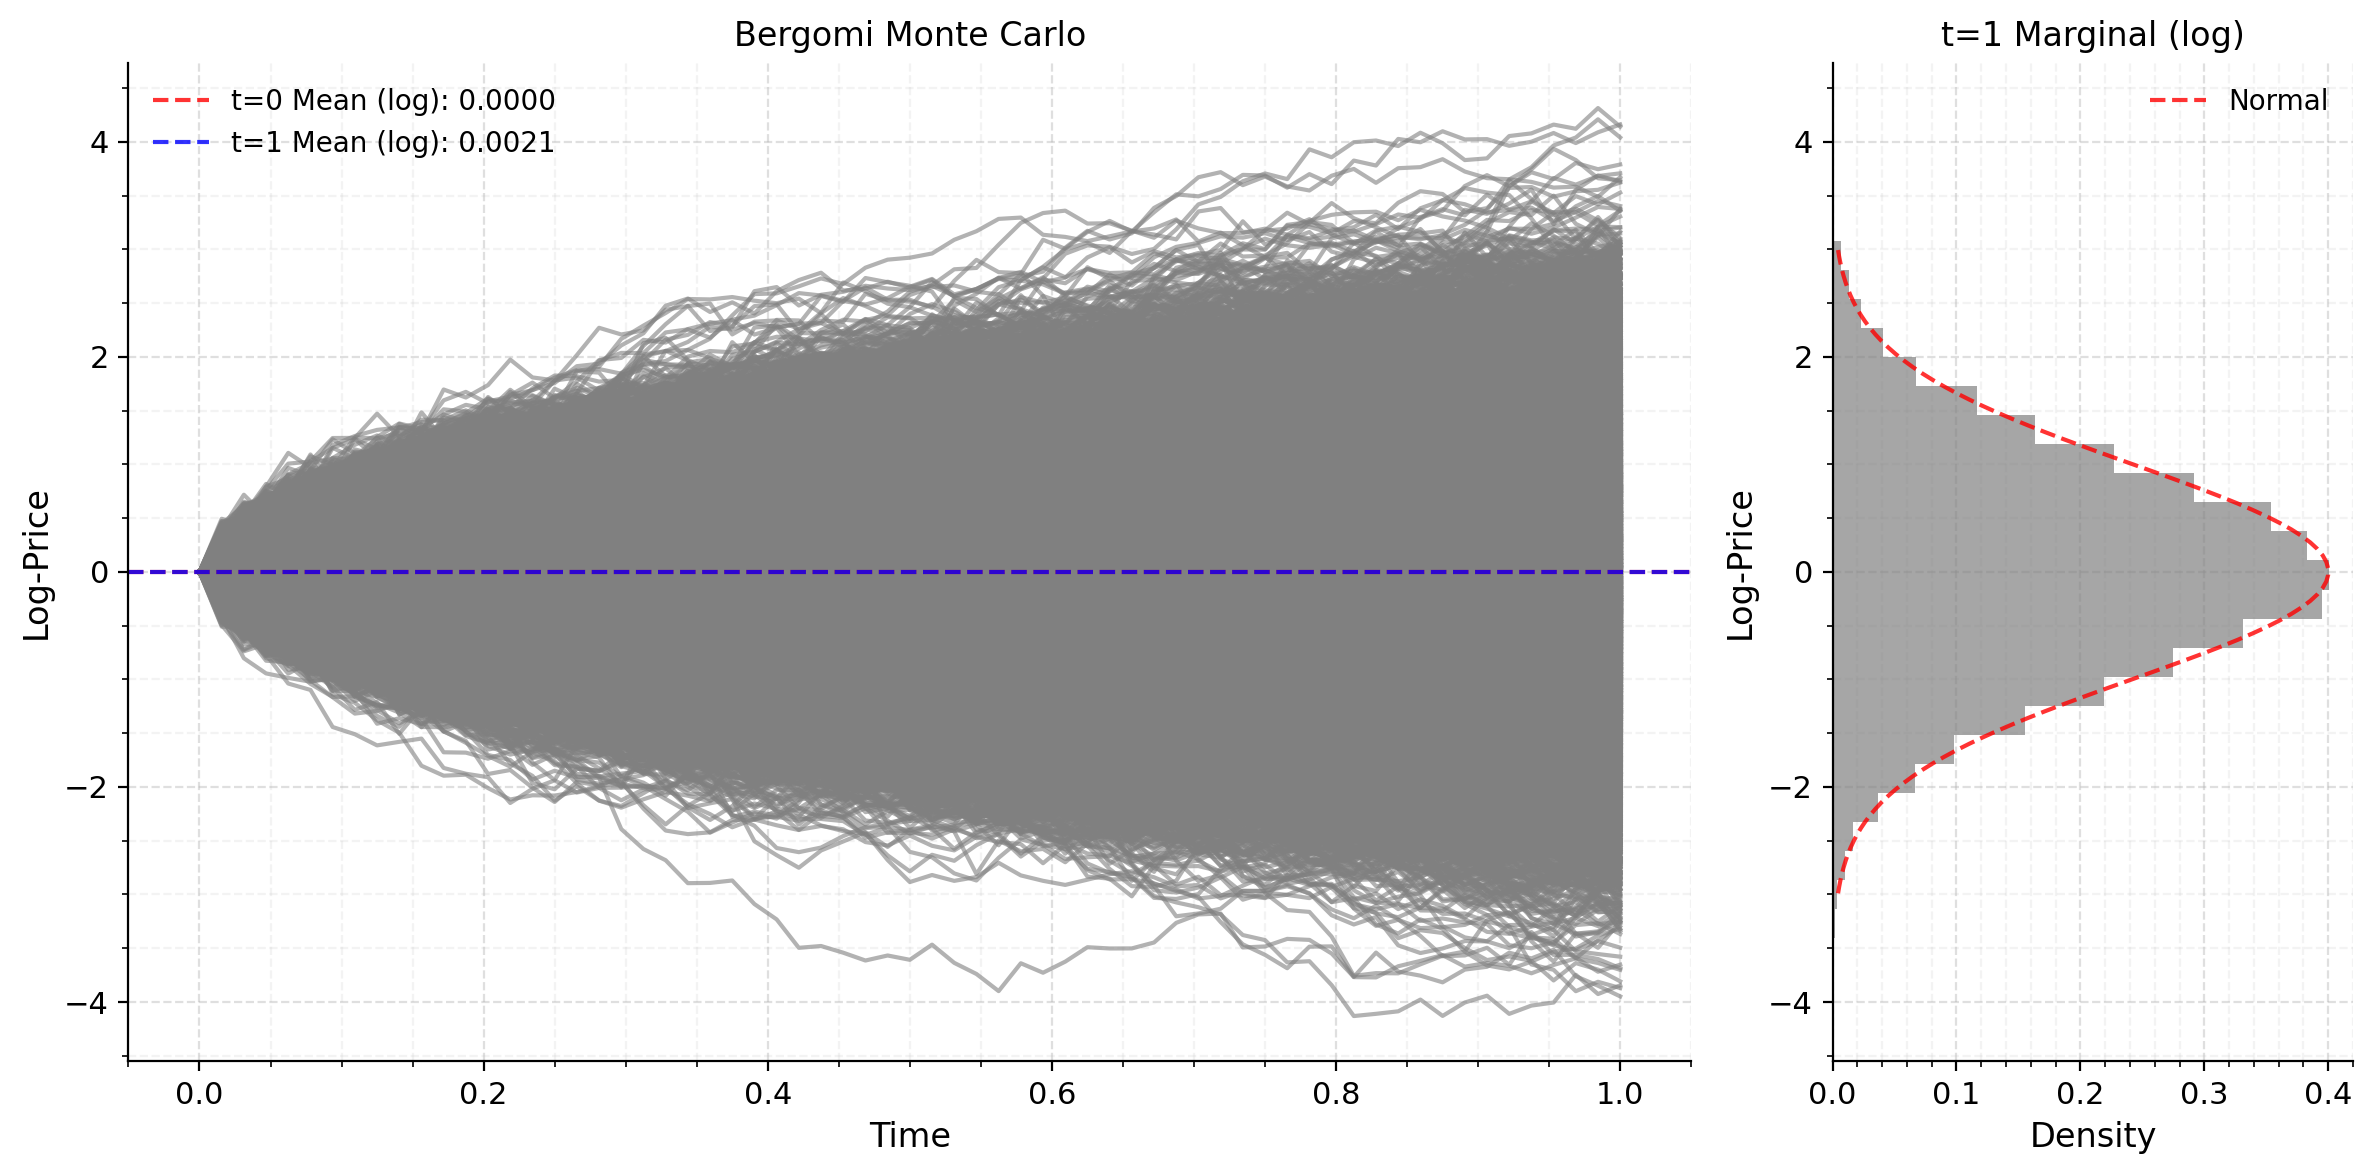
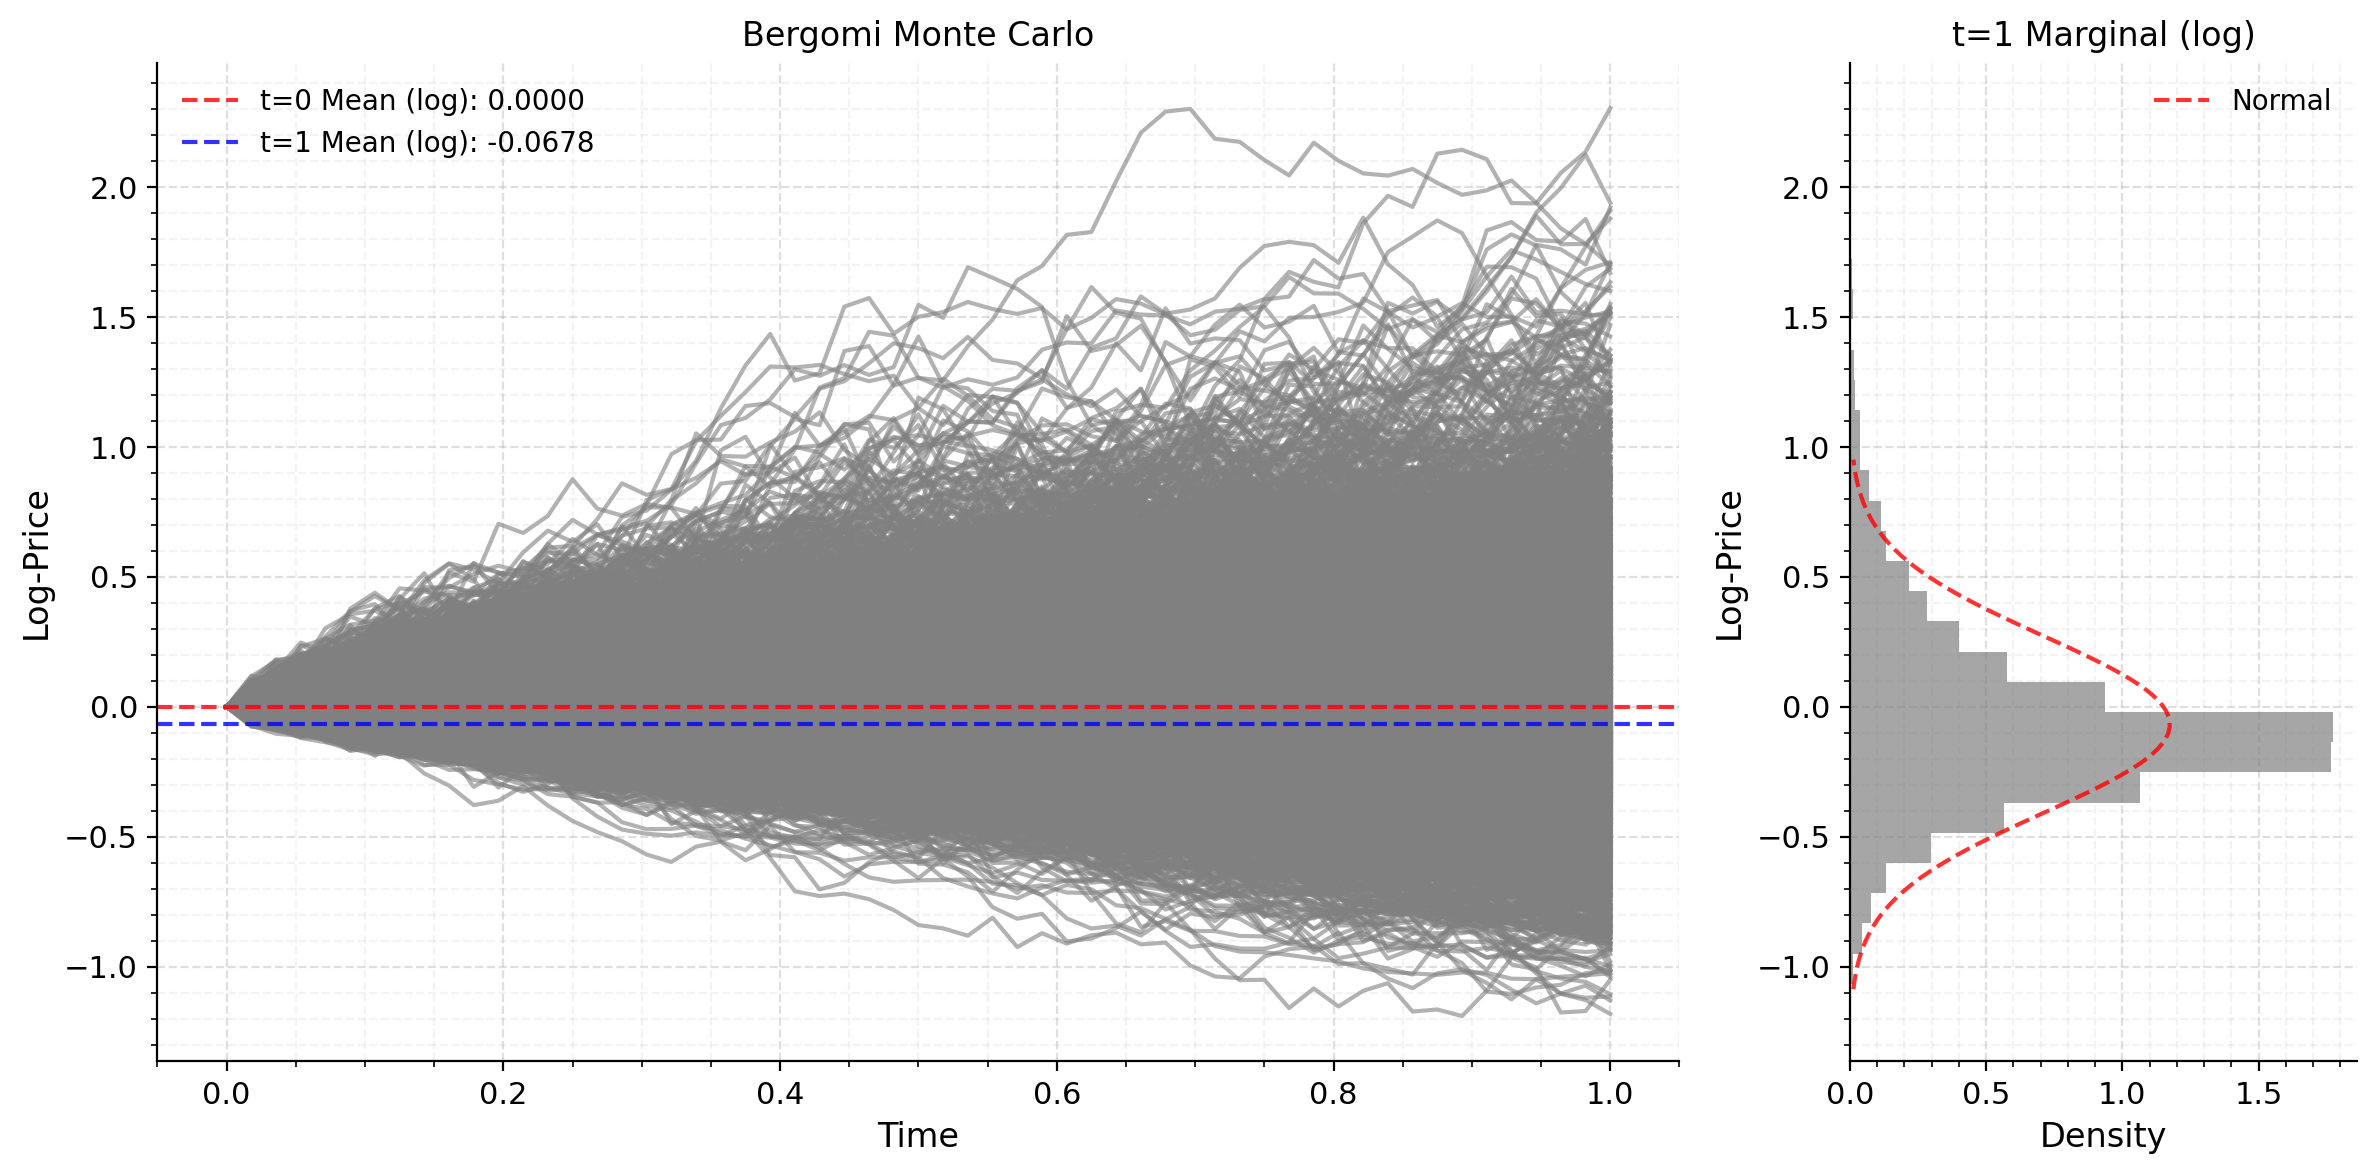
Feat: Updates for ees

diff --git a/roughbench/generate_data/generate_rough_volatility.py b/roughbench/generate_data/generate_rough_volatility.py
@@ -42,15 +42,26 @@ from roughbench.rde.rough_volatility import (
 )
 
 
+DEFAULT_CONFIG_PATH = Path("configs/rough_volatility/rBergomi.toml")
+
+
 def _parse_args() -> argparse.Namespace:
     parser = argparse.ArgumentParser(
-        description="Generate rough-volatility Monte Carlo paths from a TOML config."
+        description=(
+            "Generate rough-volatility Monte Carlo paths from one TOML config, "
+            "a config directory, or all configs in the rough-volatility config set."
+        )
     )
     parser.add_argument(
         "--config",
         type=str,
-        default="configs/rough_volatility/rBergomi.toml",
-        help="Path to TOML config file.",
+        default=str(DEFAULT_CONFIG_PATH),
+        help="Path to a TOML config file or a directory containing TOML configs.",
+    )
+    parser.add_argument(
+        "--all",
+        action="store_true",
+        help="Generate every TOML config in the resolved rough-volatility config directory.",
     )
     parser.add_argument(
         "--seed", type=int, default=None, help="Optional override for random seed."
@@ -71,6 +82,26 @@ def _parse_args() -> argparse.Namespace:
         "--no-plot", action="store_true", help="Disable diagnostic plotting."
     )
     return parser.parse_args()
+
+
+def _resolve_config_paths(config_arg: str, run_all: bool) -> list[Path]:
+    config_path = Path(config_arg)
+    if config_path.is_dir():
+        config_dir = config_path
+        config_paths = sorted(config_dir.glob("*.toml"))
+    elif run_all:
+        config_dir = config_path.parent
+        config_paths = sorted(config_dir.glob("*.toml"))
+    else:
+        if not config_path.exists():
+            raise FileNotFoundError(f"Config file not found: {config_path}")
+        return [config_path]
+
+    if not config_dir.exists():
+        raise FileNotFoundError(f"Config directory not found: {config_dir}")
+    if not config_paths:
+        raise FileNotFoundError(f"No TOML configs found in: {config_dir}")
+    return config_paths
 
 
 def _normalize_model_name(value: str) -> str:
@@ -491,20 +522,59 @@ def plot_bonesini_monte_carlo(
 
 def main() -> None:
     args = _parse_args()
-    config = load_config(args.config)
+    output_dir = Path(args.output_dir).resolve() if args.output_dir else None
+    config_paths = _resolve_config_paths(args.config, args.all)
+
+    generated_models: list[str] = []
+    for index, config_path in enumerate(config_paths, start=1):
+        if len(config_paths) > 1:
+            print(f"[{index}/{len(config_paths)}] Loading {config_path}")
+
+        model_name = _run_single_config(
+            config_path=config_path,
+            seed_override=args.seed,
+            num_paths_override=args.num_paths,
+            output_dir=output_dir,
+            no_plot=bool(args.no_plot),
+        )
+        generated_models.append(model_name)
+        if len(config_paths) > 1 and index != len(config_paths):
+            print("")
+
+    print("")
+    if len(generated_models) == 1:
+        print(
+            "Rough-volatility output saved under data/rough_volatility and mirrored plots under docs/rde_bench/rough_volatility"
+        )
+    else:
+        generated_list = ", ".join(generated_models)
+        print(f"Generated {len(generated_models)} rough-volatility models: {generated_list}")
+        print(
+            "All rough-volatility outputs saved under data/rough_volatility and mirrored plots under docs/rde_bench/rough_volatility"
+        )
+
+
+def _run_single_config(
+    *,
+    config_path: Path,
+    seed_override: int | None,
+    num_paths_override: int | None,
+    output_dir: Path | None,
+    no_plot: bool,
+) -> str:
+    config = load_config(str(config_path))
     general = config_section(config, "general")
     params = config_section(config, "parameters")
     external_cfg = config_section(config, "external_variance")
 
-    model_name = _infer_model_name(args.config, config)
-    num_paths = int(args.num_paths or general.get("num_paths", 128))
-    seed = int(args.seed if args.seed is not None else general.get("seed", 42))
+    model_name = _infer_model_name(str(config_path), config)
+    num_paths = int(num_paths_override or general.get("num_paths", 128))
+    seed = int(seed_override if seed_override is not None else general.get("seed", 42))
     noise_timesteps = int(params.get("noise_timesteps", 128))
     rde_timesteps = int(params.get("rde_timesteps", 256))
     s_0 = float(params.get("s_0", 1.0))
     use_log_price = bool(general.get("log_price", True))
     plot_variance = bool(general.get("plot_variance", True))
-    output_dir = Path(args.output_dir).resolve() if args.output_dir else None
 
     model_spec, requires_external_variance = _build_model_spec(model_name, params)
 
@@ -535,7 +605,7 @@ def main() -> None:
             seed=seed,
         )
 
-    if not bool(args.no_plot):
+    if not no_plot:
         plot_bonesini_monte_carlo(
             solutions,
             model_spec,
@@ -555,10 +625,7 @@ def main() -> None:
             driver=drivers,
         )
 
-    print("")
-    print(
-        "All rough-volatility outputs saved under data/rough_volatility and mirrored plots under docs/rde_bench/rough_volatility"
-    )
+    return model_spec.name
 
 
 if __name__ == "__main__":

diff --git a/roughbench/rde/rough_volatility.py b/roughbench/rde/rough_volatility.py
@@ -236,7 +236,7 @@ def solve_wong_zakai(
 
     return dfx.diffeqsolve(
         terms=terms,
-        solver=dfx.Heun(),
+        solver=dfx.Tsit5(),
         t0=0.0,
         t1=1.0,
         dt0=1.0 / rde_timesteps,
